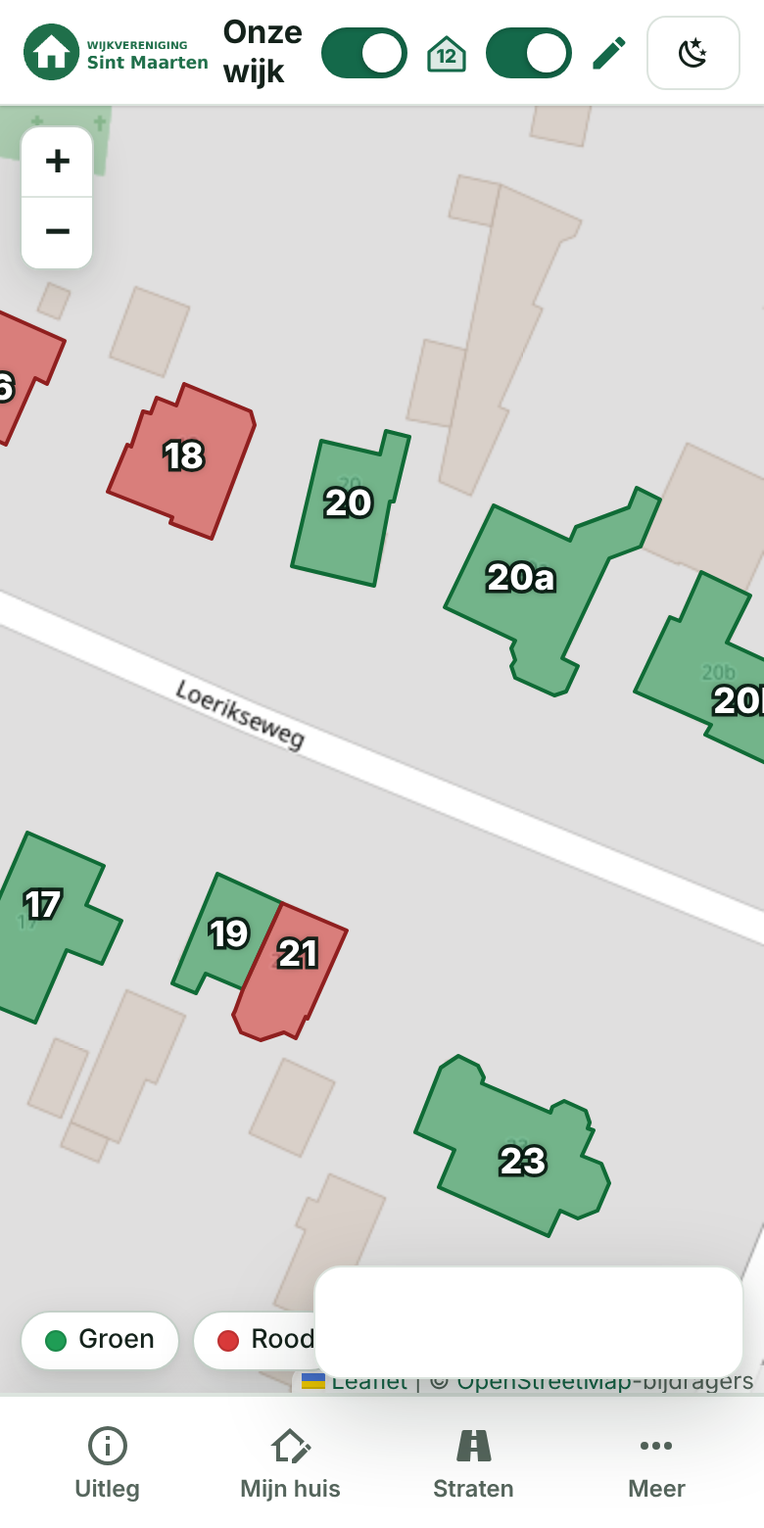
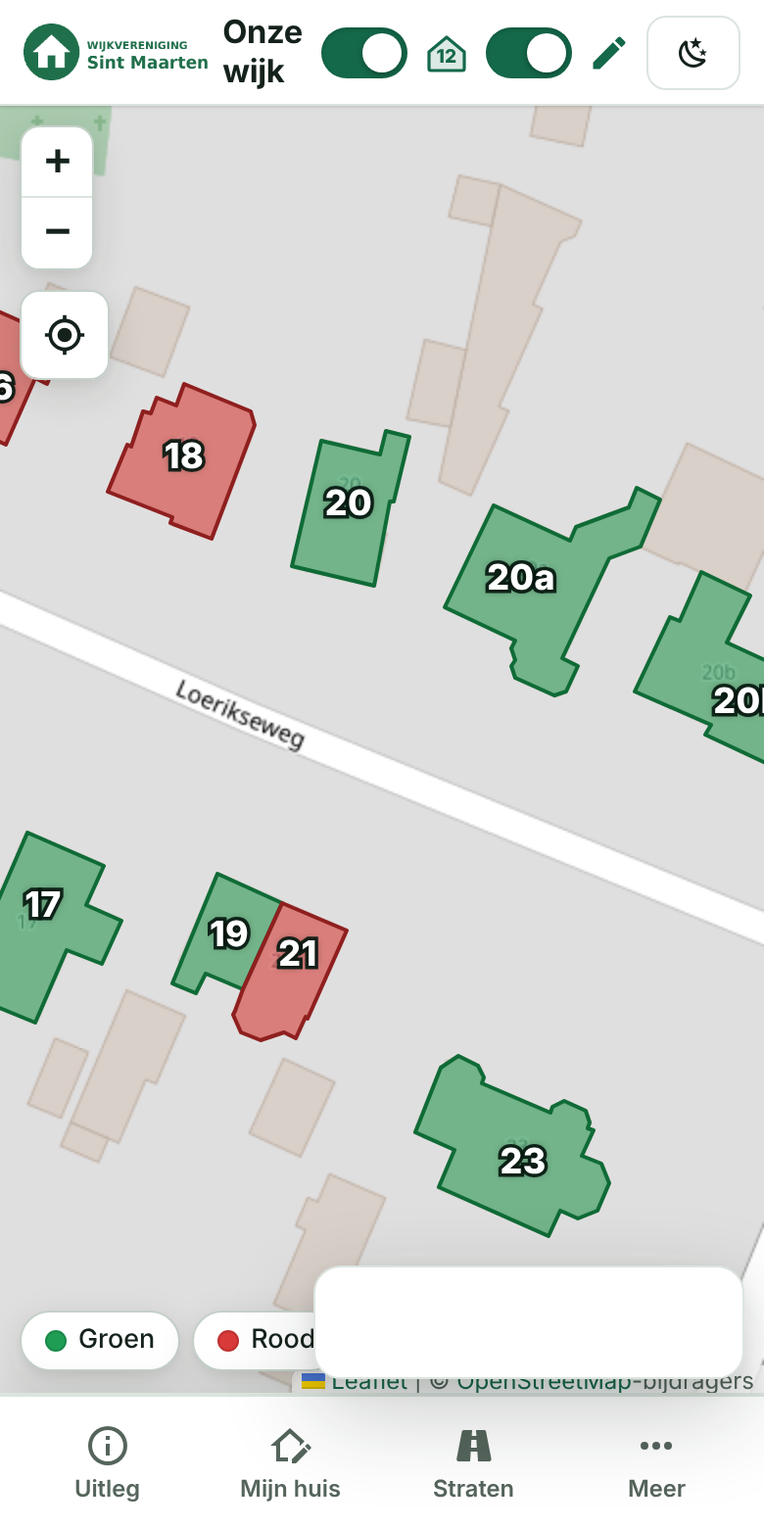
Release notes v1.0.31 en documentatie met screenshots voor de nieuwe functies
- docs/releases/v1.0.31.md: "Sinds de vorige stabiele versie (v1.0.30)" en
  "Goed om te weten bij het bijwerken" voor de promotie van beta naar productie
  (Mijn locatie, Community, installatiemelding, favicon en klein logo,
  verbergknop voor het totaal, fix kleur eigen huis).
- README (NL en EN): screenshots bij Mijn locatie, Community, de Config-instellingen,
  het overzicht met aantallen en de installatiemelding; het overzicht met aantallen
  stond nog niet beschreven; de Engelse sectie over installeren volgt nu de
  Nederlandse; een losse ** in de functielijst hersteld.
- tools/screenshots.js: maakt de nieuwe screenshots (geolocatie, community met
  andere deelnemers, installatiemelding per platform, Config, totaalblok).
- Alle bestaande screenshots opnieuw gemaakt, zodat de knop Mijn locatie overal zichtbaar is.

Claude-Session: https://claude.ai/code/session_01KSdu564CLm6kqbnwhr8yeo

Changed region(s): [[0.0, 0.1846, 0.1538, 0.2769]]

diff --git a/tools/screenshots.js b/tools/screenshots.js
@@ -377,6 +377,121 @@ async function main() {
     await ctx.close();
   }
 
+  // ---------- Mijn locatie, community, installatiemelding en de instellingen daarvoor ----------
+  console.log('locatie en community');
+  const HERE = { latitude: 52.02605, longitude: 5.16535, accuracy: 18 };
+  const geo = { geolocation: HERE, permissions: ['geolocation'] };
+  const seen = () => { try { localStorage.setItem('sm-intro-seen', 'x'); localStorage.setItem('sm-install-asked', '1'); } catch { /* geen opslag */ } };
+  // Andere deelnemers van de community (alleen coördinaten, kleur en symbool); ze verlopen na 45 s, dus vlak voor elke foto opnieuw.
+  const PEERS = [
+    ['screenshot-peer-000000001', 52.02634, 5.16572, '#e67e22', 'dog'], ['screenshot-peer-000000002', 52.02588, 5.16611, '#2980b9', 'bike'],
+    ['screenshot-peer-000000003', 52.02641, 5.16506, '#e84393', 'cat'], ['screenshot-peer-000000004', 52.02572, 5.16548, '#00a8a8', ''],
+  ];
+  const pingPeers = async () => { for (const [id, lat, lng, color, icon] of PEERS) await ap.request.post(`${BASE}/api/community/ping`, { data: { id, lat, lng, acc: 15, color, icon } }); };
+  // Opent de publieke kaart en sluit de uitleg (die staat anders open en houdt de locatie en de installatiemelding tegen).
+  const openPublic = async (p) => { await p.goto(`${BASE}/`); await p.waitForSelector('#intro-dialog[open]', { timeout: 5000 }).catch(() => {}); await closeIntro(p); };
+  const MIJN_LOCATIE = { viewport: { width: 390, height: 780 }, deviceScaleFactor: 2, isMobile: true, hasTouch: true };
+  {
+    const ctx = await browser.newContext(ctxOpts(MIJN_LOCATIE, geo));
+    await ctx.addInitScript(seen);
+    const p = await ctx.newPage();
+    await openPublic(p);
+    await p.waitForSelector('.locate-btn.on', { timeout: 10000 });
+    await p.waitForTimeout(2500);
+    await shot(p, 'mijn-locatie-mobiel');
+    await ctx.close();
+  }
+  await put('/api/admin/settings', { communityEnabled: true, communityLooks: true });
+  {
+    const ctx = await browser.newContext(ctxOpts(MIJN_LOCATIE, geo));
+    await ctx.addInitScript(seen);
+    const p = await ctx.newPage();
+    await openPublic(p);
+    await p.waitForSelector('.community-btn', { timeout: 10000 });
+    await p.waitForTimeout(1500);
+    await p.click('.community-btn');
+    await p.waitForSelector('#community-dialog[open]', { timeout: 5000 });
+    await p.click('#community-colors .look-btn:nth-child(3)');
+    await p.click('#community-icons .look-btn:nth-child(5)');
+    await p.waitForTimeout(400);
+    await shot(p, 'community-venster-mobiel');
+    await p.click('#community-yes');
+    await pingPeers();
+    await p.waitForTimeout(500);
+    await pingPeers();
+    await p.waitForTimeout(6000);
+    await pingPeers();
+    await p.waitForTimeout(4000);
+    await shot(p, 'community-kaart-mobiel');
+    await ctx.close();
+  }
+  {
+    // beheer: alle deelnemers als stippen, het aantal in de zijbalk
+    const ctx = await browser.newContext(ctxOpts(DESKTOP, { storageState: state }));
+    const p = await ctx.newPage();
+    await openAdmin(p);
+    await pingPeers();
+    await p.waitForTimeout(6000);
+    await pingPeers();
+    await p.waitForTimeout(3000);
+    await shot(p, 'beheer-community');
+    await ctx.close();
+  }
+  // instellingen: knop Mijn locatie, community en de afbeeldingen (klein logo en favicon)
+  for (const route of ['logo-small', 'favicon']) {
+    const r = await ap.request.post(`${BASE}/api/admin/${route}`, { data: logo, headers: { 'Content-Type': 'application/octet-stream' } });
+    if (!r.ok()) throw new Error(`${route} ${r.status()}`);
+  }
+  {
+    const ctx = await browser.newContext(ctxOpts({ viewport: { width: 1280, height: 900 }, deviceScaleFactor: 1 }, { storageState: state }));
+    const p = await ctx.newPage();
+    await openAdmin(p);
+    await openTab(p, 'org');
+    await p.evaluate(() => document.getElementById('org-logo-small').closest('.set-card').scrollIntoView({ block: 'start' }));
+    await p.waitForTimeout(400);
+    await shot(p, 'instellingen-config-afbeeldingen');
+    await p.evaluate(() => document.getElementById('org-locate').closest('.set-card').scrollIntoView({ block: 'start' }));
+    await p.waitForTimeout(400);
+    await shot(p, 'instellingen-config-locatie');
+    await p.evaluate(() => document.getElementById('org-community-default').scrollIntoView({ block: 'center' }));
+    await p.waitForTimeout(400);
+    await shot(p, 'instellingen-config-communityteksten');
+    await ctx.close();
+  }
+  for (const route of ['logo-small', 'favicon']) await ap.request.delete(`${BASE}/api/admin/${route}`);
+  await put('/api/admin/settings', { communityEnabled: false });
+  // totaalblok op de voorpagina met de knop om het te verbergen
+  await put('/api/admin/settings', { statsPublic: true });
+  {
+    const ctx = await browser.newContext(ctxOpts(DESKTOP));
+    await ctx.addInitScript(seen);
+    const p = await ctx.newPage();
+    await openPublic(p);
+    await p.waitForSelector('.stats-btn:not([hidden])', { timeout: 10000 });
+    await p.waitForTimeout(1500);
+    await shot(p, 'voorpagina-totaal');
+    await p.click('.stats-btn');
+    await p.waitForTimeout(500);
+    await shot(p, 'voorpagina-totaal-verborgen');
+    await ctx.close();
+  }
+  await put('/api/admin/settings', { statsPublic: false });
+  // eerste bezoek: de installatiemelding met de stappen per platform
+  const PLATFORMS = {
+    ios: 'Mozilla/5.0 (iPhone; CPU iPhone OS 17_4 like Mac OS X) AppleWebKit/605.1.15 (KHTML, like Gecko) Version/17.4 Mobile/15E148 Safari/604.1',
+    android: 'Mozilla/5.0 (Linux; Android 14; Pixel 8) AppleWebKit/537.36 (KHTML, like Gecko) Chrome/124.0.0.0 Mobile Safari/537.36',
+  };
+  for (const [name, userAgent] of Object.entries(PLATFORMS)) {
+    if (!wanted(`installatiemelding-${name}`)) continue;
+    const ctx = await browser.newContext(ctxOpts({ ...MOBILE, userAgent }));
+    const p = await ctx.newPage();
+    await openPublic(p);
+    await p.waitForSelector('#install-dialog[open]', { timeout: 20000 });
+    await p.waitForTimeout(600);
+    await shot(p, `installatiemelding-${name}`);
+    await ctx.close();
+  }
+
   // ---------- meertalig en donker: Config met taalbalk en de Engelse/donkere site ----------
   console.log('talen');
   await put('/api/admin/settings', { multilingual: true, defaultLang: 'nl', translations: { en: { siteTitle: 'Our neighbourhood', intro: 'Welcome to the neighbourhood map of our association! Green houses are happy to receive visitors, red houses prefer not.', labels: { green: '', red: '', none: '' } } } });

diff --git a/README.en.md b/README.en.md
@@ -24,7 +24,8 @@ An interactive map of the neighbourhood in which every house is **green**, **red
 - Map based on OpenStreetMap (no API key) with coloured areas over the houses; click a house for its note.
 - House numbers on the map (switch), a street filter with green/red counts, and an information window.
 - **PDF** (A4 landscape) with map, legend, totals, logo, explanation and an overview of the marked houses, including date and time.
-- **Installable as an app (PWA)** with its own app icon and **offline** use.
+- **Installable as an app (PWA)** with its own app icon and **offline** use; on the first visit a prompt with an *Install now* button and the steps per platform helps you. See [Installing as an app](#installing-as-an-app-and-offline-use).
+- The **overview with totals** (total and per status) is also shown on the front page when the admin switches it on; a button next to light/dark hides or shows the block.
 - Works on phone (menu bar at the bottom, floating status bar) and desktop.
 - **Multilingual** (Dutch and English, can be switched on in the admin area) and a **dark/light mode** with a button at the top right. See [Languages and dark mode](#languages-and-dark-mode).
 
@@ -32,6 +33,7 @@ An interactive map of the neighbourhood in which every house is **green**, **red
 - Residents change the status of **their own house** (one house per device); the admin approves it. See [Residents: My house](#residents-my-house).
 - Quickly go to your house with a double-click or long-press.
 - The **My location** button (below the zoom buttons) shows your own position as a blue dot, on by default (the browser asks for permission), so you only need one phone.
+- Optional (switched on by the admin): the **Community** to share your position live and see the other participants as dots, with their own colour and symbol. See [My location and Community](#the-website-for-visitors).
 - Optional: choose a house **only with the QR code** from the letter (one device per house), with a location check (geofence) and/or an access code for devices without GPS. See [Access via QR code](#access-via-qr-code-optional).
 
 **For the admin**
@@ -40,7 +42,7 @@ An interactive map of the neighbourhood in which every house is **green**, **red
 - **Approve or reject** changes by residents, with **push notifications**; **block** devices (also by IP); **schedule** changes until a date and time.
 - **QR codes** per house: show, copy the link, renew, and a **printable PDF** with a card per house to deliver to the residents.
 - Settings in five clear tabs; the admin area can also be installed as its own **app**.
-- Your own **logo** (with an optional small logo for the header), an optional **favicon** (also the icon of the installed app; the lantern by default), explanation, info box, site and app name** and your own names for the statuses.
+- Your own **logo** (with an optional small logo for the header), an optional **favicon** (also the icon of the installed app; the lantern by default), explanation, info box, **site and app name** and your own names for the statuses.
 - Automatic **backups** after every save attempt, with short titles and manual backups.
 - Version number and commit visible in the settings menu.
 
@@ -64,6 +66,12 @@ Example with random houses (map data © OpenStreetMap contributors).
 
 **Explanation and info box** – the association's text; it is shown automatically the first time and closes with the cross at the top right. At the top is the eye-catching green **info box** explaining that residents can change their own house; it disappears as soon as changing is switched off.
 
+**Overview with totals** – at the top right of the map are the *total number of houses* and, per status, the number and the percentage, with a distribution bar. The admin switches the block on for visitors with *Also show on the front page* (*Settings → Config → Display*; off by default). When it is visible, a button next to the light/dark button lets a visitor hide or show the block; that choice is remembered on that device only.
+
+<table>
+<tr><td align="center" valign="top"><a href="docs/screenshots/voorpagina-totaal.png"><img src="docs/screenshots/voorpagina-totaal.png" width="400" alt="Overview with totals"></a><br><sub>Overview with totals</sub></td><td align="center" valign="top"><a href="docs/screenshots/voorpagina-totaal-verborgen.png"><img src="docs/screenshots/voorpagina-totaal-verborgen.png" width="400" alt="Hidden with the button at the top right"></a><br><sub>Hidden with the button at the top right</sub></td></tr>
+</table>
+
 **PDF export** – A4 landscape with legend, totals and the date and time (HH:MM) of the status. Page 2 contains the logo, the explanation and the overview of the marked houses. The PDF follows the chosen streets and the house numbers.
 
 <table>
@@ -82,7 +90,15 @@ Example with random houses (map data © OpenStreetMap contributors).
 
 **My location** – below the zoom buttons is the *My location* button (the crosshair). Your location is **on by default**: when the map opens, the browser asks for permission to use your location (after the explanation has been closed). On a first visit everything comes one after another: first the explanation, then the location question, and only then the install notice. If you allow it, the button switches on (blue), your position appears as a blue dot with a light circle for the accuracy, the map zooms to you and follows you as you walk. Without permission the map stays as it was and no message follows. If you move the map yourself, following stops (the dot stays) and a tap on the button takes you back; one more tap on the next state turns the location off. If you turn the location off yourself, it no longer starts by itself on that device (only that choice is remembered, in the browser); a tap on the button turns it back on. While the location is on the screen stays awake, so you do not have to keep unlocking your phone while walking (if your browser supports it; otherwise the screen simply dims, and it is requested again when you return to the page). Your position stays on your phone: it is never stored or sent anywhere, unless you choose to share it with the Community (see below). Showing your location only works over **https**. The administrator can hide the button, and with it the location (see *Config*).
 
+<table>
+<tr><td align="center" valign="top"><a href="docs/screenshots/mijn-locatie-mobiel.png"><img src="docs/screenshots/mijn-locatie-mobiel.png" width="220" alt="My location: blue dot with accuracy circle"></a><br><sub>My location: blue dot with accuracy circle</sub></td></tr>
+</table>
+
 **Community** – optional, **off** by default; the administrator switches it on under *Settings → Config → Display → Community*. A second button (the three people) then appears below *My location* to share your position live. Sharing is always voluntary: you must confirm it first and one tap stops it. Anyone taking part sees the other participants as **dots** (with the count on the button); anyone who does not share sees nobody. No name is attached. In the confirmation window a participant also picks a **colour and a symbol** (for example an animal) that others see; without a choice it is the default purple dot. The administrator can switch this choice off with *Choose colour and symbol* (on by default), after which every dot is purple. The **title and text** of the confirmation window are set by the administrator under *Config → Texts* (per language; empty = default text). The server only keeps positions briefly in memory (not on disk) and deletes them as soon as someone stops, closes the page, or after 45 seconds without a signal; when the administrator switches the feature off every position is gone immediately. In the admin area the administrator sees all participants as dots on the map, with the count in the side bar. This only works if the *My location* button is on as well.
+
+<table>
+<tr><td align="center" valign="top"><a href="docs/screenshots/community-venster-mobiel.png"><img src="docs/screenshots/community-venster-mobiel.png" width="220" alt="Confirm sharing, with colour and symbol"></a><br><sub>Confirm sharing, with colour and symbol</sub></td><td align="center" valign="top"><a href="docs/screenshots/community-kaart-mobiel.png"><img src="docs/screenshots/community-kaart-mobiel.png" width="220" alt="Participants as dots, the number on the button"></a><br><sub>Participants as dots, the number on the button</sub></td><td align="center" valign="top"><a href="docs/screenshots/beheer-community.png"><img src="docs/screenshots/beheer-community.png" width="220" alt="Admin area: all participants on the map"></a><br><sub>Admin area: all participants on the map</sub></td></tr>
+</table>
 
 **In the admin area** this works too: double-click (or long-press) a house and select mode switches on with that house selected, even if you were just drawing (as long as no area is in progress).
 
@@ -179,6 +195,10 @@ The cog (⚙) in the bar slides the settings menu into view. It is divided into 
 
 **Config** – language (multilingual and default language), logo, name of the site and the app, the simple display, the *My location* button for visitors (on or off; on by default), the *Community* (live participants; off by default), *Choose colour and symbol* for the community (on or off; on by default), the names of the statuses, the info box, the explanation, the text when sharing via WhatsApp and the title and text of the community window (the texts per language).
 
+<table>
+<tr><td align="center" valign="top"><a href="docs/screenshots/instellingen-config-afbeeldingen.png"><img src="docs/screenshots/instellingen-config-afbeeldingen.png" width="270" alt="Config: logo, small logo and favicon"></a><br><sub>Config: logo, small logo and favicon</sub></td><td align="center" valign="top"><a href="docs/screenshots/instellingen-config-locatie.png"><img src="docs/screenshots/instellingen-config-locatie.png" width="270" alt="Config: My location and Community"></a><br><sub>Config: My location and Community</sub></td><td align="center" valign="top"><a href="docs/screenshots/instellingen-config-communityteksten.png"><img src="docs/screenshots/instellingen-config-communityteksten.png" width="270" alt="Config: title and text of the community window"></a><br><sub>Config: title and text of the community window</sub></td></tr>
+</table>
+
 **Security** – add/remove passkeys and an optional password (confirm with passkey).
 
 **Backups** – after every save attempt a backup of the layout and texts is made automatically. Give a backup a **short title** (✎, max. 40 characters, for example "Everything" or "Layout only") or make one yourself with *Make backup*. Restoring or downloading is always possible; deleting (one or several at once) must be confirmed with your passkey.
@@ -248,9 +268,17 @@ Without input the site name (`SITE_TITLE`) applies. An already installed app onl
 The admin area (`/beheer`) can also be installed as its own app, with its own dark blue lantern with a cog as the icon and its own favicon, so you can tell it apart from the public map (Chrome/Edge: install icon in the address bar or *Install app*; iPhone/iPad: *Add to Home Screen*). The app opens directly at `/beheer`; push notifications for new changes use the same icon. You make a new icon with `python3 tools/make-icons.py`.
 
 ## Installing as an app and offline use
-- **Android and Windows (Chrome/Edge)**: you get a **one-time** prompt to install the app (*Install* / *Not now*), remembered per device. After that it is also possible via the browser menu → *Install app*.
-- **iPhone/iPad**: the same one-time prompt with instructions (see below).
-- **iPhone/iPad (Safari)**: share icon → *Add to Home Screen*.
+
+<table>
+<tr><td align="center" valign="top"><a href="docs/screenshots/installatiemelding-ios.png"><img src="docs/screenshots/installatiemelding-ios.png" width="220" alt="Install prompt on iPhone/iPad"></a><br><sub>Install prompt on iPhone/iPad</sub></td><td align="center" valign="top"><a href="docs/screenshots/installatiemelding-android.png"><img src="docs/screenshots/installatiemelding-android.png" width="220" alt="Install prompt on Android"></a><br><sub>Install prompt on Android</sub></td></tr>
+</table>
+
+- **First visit (iPhone/iPad, Android and Windows with Chrome/Edge)**: you get a **one-time** prompt *Install the app* (remembered per device) with an **Install now** button that starts the installation, plus instructions per platform:
+  - **iPhone/iPad (Safari)**: *Install now* opens the share sheet; choose *Add to Home Screen* → *Add*.
+  - **Android (Chrome)**: *Install now* starts the browser's installation; if that is not possible, the steps are shown (menu ⋮ → *Install app*).
+  - **Windows (Chrome/Edge)**: *Install now* starts the browser's installation; otherwise use the install icon in the address bar or the menu → *Install app* (Edge: *Apps* → *Install this site as an app*).
+  - With *Not now* you close the prompt; you can still install later via the browser menu.
+- On the very first visit the messages come one after the other: first the explanation, then the location question, then the install prompt.
 - **Offline**: the app stores itself, the last known map data, the logo and the map tiles of the neighbourhood (and the PDF section).
   Without a connection you see the last known state (with the message *Offline*), and the PDF can still be made. Only the admin area always requires a connection.
 - This only works over **HTTPS** (see `ORIGIN`). After an update of the site the app fetches the new version on the next visit.

diff --git a/README.md b/README.md
@@ -22,7 +22,8 @@ Een interactieve kaart van de wijk waarop elk huis **groen**, **rood** of **niet
 - Kaart op basis van OpenStreetMap (geen API-sleutel) met gekleurde vlakken over de huizen; klik op een huis voor de notitie.
 - Huisnummers op de kaart (schakelaar), straten-filter met tellingen groen/rood, en een uitleg- en infovenster.
 - **PDF** (A4 liggend) met kaart, legenda, aantallen, logo, uitleg en een overzicht van de gemarkeerde huizen, inclusief datum en tijd.
-- **Installeerbaar als app (PWA)** met eigen app-icoon en **offline** gebruik.
+- **Installeerbaar als app (PWA)** met eigen app-icoon en **offline** gebruik; bij het eerste bezoek helpt een melding met een knop *Installeer nu* en de stappen per platform. Zie [Installeren als app](#installeren-als-app-en-offline-gebruik).
+- Het **overzicht met aantallen** (totaal en per status) staat, als de beheerder dat aanzet, ook op de voorpagina; een knop naast licht/donker verbergt of toont het blok.
 - Werkt op telefoon (menubalk onderin, zwevend statusbalkje) en desktop.
 - **Meertalig** (Nederlands en Engels, in te schakelen in het beheer) en een **donkere/lichte weergave** met een knop rechtsboven. Zie [Talen en donkere weergave](#talen-en-donkere-weergave).
 
@@ -30,6 +31,7 @@ Een interactieve kaart van de wijk waarop elk huis **groen**, **rood** of **niet
 - Bewoners wijzigen de status van **hun eigen huis** (één huis per apparaat); de beheerder keurt dat goed. Zie [Bewoners: Mijn huis](#bewoners-mijn-huis).
 - Snel naar je huis met dubbelklikken of lang indrukken.
 - De knop **Mijn locatie** (onder de zoomknoppen) toont je eigen positie standaard als blauwe stip, zodat je maar één telefoon nodig hebt.
+- Optioneel (door de beheerder aan te zetten): de **Community** om je positie live te delen en de andere deelnemers als stippen te zien, met een eigen kleur en symbool. Zie [Mijn locatie en Community](#de-website-voor-bezoekers).
 - Optioneel: huis kiezen **alleen met de QR-code** uit de brief (één apparaat per huis), met locatiecontrole (geofence) en/of een toegangscode voor apparaten zonder GPS. Zie [Toegang via QR-code](#toegang-via-qr-code-optioneel).
 
 **Voor de beheerder**
@@ -38,7 +40,7 @@ Een interactieve kaart van de wijk waarop elk huis **groen**, **rood** of **niet
 - Wijzigingen van bewoners **goedkeuren of afwijzen**, met **pushmeldingen**; apparaten **blokkeren** (ook op IP); wijzigen **plannen** tot een datum en tijd.
 - **QR-codes** per huis: tonen, link kopiëren, vernieuwen en een **afdrukbare PDF** met een kaartje per huis om bij de bewoners te bezorgen.
 - Instellingen in vijf overzichtelijke tabs; het beheer is ook als eigen **app** te installeren.
-- Eigen **logo** (met een optioneel klein logo voor de kopbalk), een optioneel **favicon** (ook het icoon van de geïnstalleerde app; standaard de lantaarn), uitleg, infovlak, site- en appnaam** en eigen namen voor de statussen.
+- Eigen **logo** (met een optioneel klein logo voor de kopbalk), een optioneel **favicon** (ook het icoon van de geïnstalleerde app; standaard de lantaarn), uitleg, infovlak, **site- en appnaam** en eigen namen voor de statussen.
 - Automatische **backups** na elke opslagpoging, met korte titels en handmatige backups.
 - Versienummer en commit zichtbaar in het instellingenmenu.
 
@@ -62,6 +64,12 @@ Voorbeeld met willekeurige huizen (kaartgegevens © OpenStreetMap-bijdragers).
 
 **Uitleg en infovlak** – de tekst van de vereniging; wordt de eerste keer automatisch getoond en sluit met het kruisje rechtsboven. Bovenaan staat het opvallende groene **infovlak** dat uitlegt dat bewoners hun eigen huis kunnen wijzigen; dat verdwijnt zodra wijzigen is uitgeschakeld.
 
+**Overzicht met aantallen** – rechtsboven op de kaart staat het *totaal aantal huizen* en per status het aantal en het percentage, met een verdelingsbalk. De beheerder zet het blok voor bezoekers aan met *Ook op de voorpagina tonen* (*Instellingen → Config → Weergave*; standaard uit). Is het zichtbaar, dan staat naast de licht/donker-knop een knop waarmee een bezoeker het blok verbergt of weer toont; die keuze wordt alleen op dat apparaat onthouden.
+
+<table>
+<tr><td align="center" valign="top"><a href="docs/screenshots/voorpagina-totaal.png"><img src="docs/screenshots/voorpagina-totaal.png" width="400" alt="Overzicht met aantallen"></a><br><sub>Overzicht met aantallen</sub></td><td align="center" valign="top"><a href="docs/screenshots/voorpagina-totaal-verborgen.png"><img src="docs/screenshots/voorpagina-totaal-verborgen.png" width="400" alt="Verborgen met de knop rechtsboven"></a><br><sub>Verborgen met de knop rechtsboven</sub></td></tr>
+</table>
+
 **PDF-export** – A4 liggend met legenda, aantallen en de datum en het tijdstip (HH:MM) van de stand. Pagina 2 bevat het logo, de uitleg en het overzicht van de gemarkeerde huizen. De PDF volgt de gekozen straten en de huisnummers.
 
 <table>
@@ -80,7 +88,15 @@ Voorbeeld met willekeurige huizen (kaartgegevens © OpenStreetMap-bijdragers).
 
 **Mijn locatie** – onder de zoomknoppen staat de knop *Mijn locatie* (het richtkruis). De locatie staat **standaard aan**: bij het openen van de kaart vraagt de browser om toestemming (nadat de uitleg is gesloten). Bij het eerste bezoek komt alles na elkaar: eerst de uitleg, dan de locatievraag, en pas daarna de installatiemelding. Geef je die, dan schakelt de knop in (blauw), verschijnt je positie als blauwe stip met een lichte cirkel voor de nauwkeurigheid, zoomt de kaart naar je toe en volgt hij je terwijl je loopt. Zonder toestemming blijft de kaart zoals hij was en volgt er geen melding. Schuif je de kaart zelf weg, dan stopt het volgen (de stip blijft) en brengt een tik op de knop je terug; nog een tik op de volgende stand zet de locatie uit. Wie de locatie zelf uitzet, krijgt hem op dat apparaat niet meer vanzelf aan (alleen die keuze wordt onthouden, in de browser); een tik op de knop zet hem weer aan. Zolang de locatie aan staat blijft het scherm aan, zodat je de telefoon tijdens het lopen niet steeds hoeft te ontgrendelen (als je browser dat ondersteunt; anders dimt het scherm gewoon, en na terugkeren naar de pagina wordt het opnieuw aangevraagd). Je positie blijft op je telefoon: ze wordt nergens opgeslagen of verstuurd, behalve als je zelf kiest voor delen met de Community (zie hieronder). Het tonen van je locatie werkt alleen via **https**. De beheerder kan de knop, en daarmee de locatie, verbergen (zie *Config*).
 
+<table>
+<tr><td align="center" valign="top"><a href="docs/screenshots/mijn-locatie-mobiel.png"><img src="docs/screenshots/mijn-locatie-mobiel.png" width="220" alt="Mijn locatie: blauwe stip met nauwkeurigheidscirkel"></a><br><sub>Mijn locatie: blauwe stip met nauwkeurigheidscirkel</sub></td></tr>
+</table>
+
 **Community** – optioneel, standaard **uit**; de beheerder zet het aan onder *Instellingen → Config → Weergave → Community*. Dan verschijnt onder *Mijn locatie* een tweede knop (de drie poppetjes) om je positie live te delen. Delen is altijd vrijwillig: je moet het eerst bevestigen en stoppen kan met één tik. Wie meedoet ziet de andere deelnemers als **stippen** (met het aantal op de knop); wie niet deelt, ziet niemand. Er staat geen naam bij. In het bevestigingsvenster kiest een deelnemer ook een **kleur en een symbool** (bijvoorbeeld een dier) waarmee anderen hem zien; zonder keuze is het de standaard paarse stip. De beheerder zet die keuze uit met *Kleur en symbool kiezen* (standaard aan), dan zijn alle stippen paars. De **titel en de tekst** van het bevestigingsvenster stelt de beheerder in onder *Config → Teksten* (per taal; leeg = standaardtekst). De server bewaart posities alleen kort in het geheugen (niet op schijf) en wist ze zodra iemand stopt, de pagina sluit, of na 45 seconden zonder signaal; de beheerder zet de functie uit en alle posities zijn direct weg. In het beheer ziet de beheerder alle deelnemers als stippen op de kaart, met het aantal in de zijbalk. Dit werkt alleen als de knop *Mijn locatie* ook aan staat.
+
+<table>
+<tr><td align="center" valign="top"><a href="docs/screenshots/community-venster-mobiel.png"><img src="docs/screenshots/community-venster-mobiel.png" width="220" alt="Delen bevestigen, met kleur en symbool"></a><br><sub>Delen bevestigen, met kleur en symbool</sub></td><td align="center" valign="top"><a href="docs/screenshots/community-kaart-mobiel.png"><img src="docs/screenshots/community-kaart-mobiel.png" width="220" alt="Deelnemers als stippen, het aantal op de knop"></a><br><sub>Deelnemers als stippen, het aantal op de knop</sub></td><td align="center" valign="top"><a href="docs/screenshots/beheer-community.png"><img src="docs/screenshots/beheer-community.png" width="220" alt="Beheer: alle deelnemers op de kaart"></a><br><sub>Beheer: alle deelnemers op de kaart</sub></td></tr>
+</table>
 
 **In het beheer** werkt dit ook: dubbelklik (of druk lang) op een huis en de selecteermodus gaat aan met dat huis geselecteerd, ook als je net aan het tekenen was (zolang er nog geen vlak loopt).
 
@@ -177,6 +193,10 @@ Het tandwiel (⚙) in de balk schuift het instellingen-menu in beeld. Het is ing
 
 **Config** – taal (meertalig en standaardtaal), logo, naam van de site en de app, de eenvoudige weergave, de knop *Mijn locatie* voor bezoekers (aan of uit; standaard aan), de *Community* (live deelnemers; standaard uit), *Kleur en symbool kiezen* voor de community (aan of uit; standaard aan), de namen van de statussen, het infovlak, de uitleg, de tekst bij delen via WhatsApp en de titel en tekst van het communityvenster (de teksten per taal).
 
+<table>
+<tr><td align="center" valign="top"><a href="docs/screenshots/instellingen-config-afbeeldingen.png"><img src="docs/screenshots/instellingen-config-afbeeldingen.png" width="270" alt="Config: logo, klein logo en favicon"></a><br><sub>Config: logo, klein logo en favicon</sub></td><td align="center" valign="top"><a href="docs/screenshots/instellingen-config-locatie.png"><img src="docs/screenshots/instellingen-config-locatie.png" width="270" alt="Config: Mijn locatie en Community"></a><br><sub>Config: Mijn locatie en Community</sub></td><td align="center" valign="top"><a href="docs/screenshots/instellingen-config-communityteksten.png"><img src="docs/screenshots/instellingen-config-communityteksten.png" width="270" alt="Config: titel en tekst van het communityvenster"></a><br><sub>Config: titel en tekst van het communityvenster</sub></td></tr>
+</table>
+
 **Beveiliging** – passkeys toevoegen/verwijderen en een optioneel wachtwoord (bevestigen met passkey).
 
 **Backups** – na elke opslagpoging wordt automatisch een backup gemaakt van de layout en teksten. Geef een backup een **korte titel** (✎, max. 40 tekens, bijvoorbeeld "Alles" of "Alleen layout") of maak er zelf een met *Backup maken*. Terugzetten of downloaden kan altijd; verwijderen (één of meer tegelijk) moet je bevestigen met je passkey.
@@ -246,6 +266,11 @@ Zonder invoer geldt de sitenaam (`SITE_TITLE`). Een al geïnstalleerde app neemt
 Ook het beheer (`/beheer`) is te installeren als eigen app, met een eigen donkerblauwe lantaarn met tandwiel als icoon en een eigen favicon, zodat je het onderscheidt van de publieke kaart (Chrome/Edge: installeer-icoon in de adresbalk of *App installeren*; iPhone/iPad: *Zet in beginscherm*). De app opent direct op `/beheer`; pushmeldingen voor nieuwe wijzigingen gebruiken hetzelfde icoon. Een nieuw icoon maak je met `python3 tools/make-icons.py`.
 
 ## Installeren als app en offline gebruik
+
+<table>
+<tr><td align="center" valign="top"><a href="docs/screenshots/installatiemelding-ios.png"><img src="docs/screenshots/installatiemelding-ios.png" width="220" alt="Installatiemelding op iPhone/iPad"></a><br><sub>Installatiemelding op iPhone/iPad</sub></td><td align="center" valign="top"><a href="docs/screenshots/installatiemelding-android.png"><img src="docs/screenshots/installatiemelding-android.png" width="220" alt="Installatiemelding op Android"></a><br><sub>Installatiemelding op Android</sub></td></tr>
+</table>
+
 - **Eerste bezoek (iPhone/iPad, Android en Windows met Chrome/Edge)**: je krijgt **eenmalig** een melding *Installeer de app* (per apparaat onthouden) met een knop **Installeer nu** die het installeren start, plus uitleg per platform:
   - **iPhone/iPad (Safari)**: *Installeer nu* opent het deelvenster; kies daarin *Zet in beginscherm* → *Voeg toe*.
   - **Android (Chrome)**: *Installeer nu* start de installatie van de browser; kan dat niet, dan staan de stappen erbij (menu ⋮ → *App installeren*).

diff --git a/docs/releases/v1.0.31.md b/docs/releases/v1.0.31.md
@@ -1,0 +1,49 @@
+# v1.0.31 – Mijn locatie, de community op de kaart en een eigen icoon voor de app
+
+Een flinke stap vooruit voor bezoekers met een telefoon: de kaart toont nu je eigen positie, bezoekers kunnen (als jij dat aanzet) hun positie live met elkaar delen, en de app is makkelijker te installeren. Voor de beheerder is er een eigen favicon en een klein logo voor de kopbalk, en de teksten van het communityvenster stel je zelf in. **Er is niets wat je moet aanpassen** voordat je bijwerkt.
+
+## Sinds de vorige stabiele versie (v1.0.30)
+
+### ✨ Nieuw voor bezoekers en bewoners
+- **Mijn locatie.** Onder de zoomknoppen staat een knop met een richtkruis. De locatie staat **standaard aan**: bij het openen van de kaart vraagt de browser om toestemming (nadat de uitleg is gesloten). Na toestemming verschijnt je positie als blauwe stip met een cirkel voor de nauwkeurigheid, zoomt de kaart naar je toe en volgt hij je terwijl je loopt; het scherm blijft aan zolang de locatie aan staat (als je browser dat ondersteunt), zodat je de telefoon niet steeds hoeft te ontgrendelen. Je hebt dus geen tweede telefoon met een navigatie-app meer nodig. Schuif je de kaart zelf weg, dan stopt het volgen en brengt een tik op de knop je terug. Zet je de locatie zelf uit, dan onthoudt dat apparaat dat. Je positie blijft op je telefoon en wordt nergens opgeslagen, tenzij je zelf kiest voor delen met de community.
+- **Community (optioneel).** Zet de beheerder de community aan, dan staat onder *Mijn locatie* een tweede knop (de drie poppetjes) om je positie live te delen. Delen is altijd vrijwillig: je bevestigt het eerst en stopt met één tik. Wie meedoet ziet de andere deelnemers als stippen op de kaart, met het aantal op de knop; wie niet deelt, ziet niemand. Er staat geen naam bij.
+- **Eigen kleur en symbool.** In het bevestigingsvenster kies je een kleur (8) en een symbool (11, zoals een hond, fiets of boom) waarmee anderen je op de kaart zien. De beheerder kan dit uitzetten; dan is iedereen weer de standaard paarse stip.
+- **Installeren als app, op alle platformen.** Bij het eerste bezoek krijg je eenmalig de melding *Installeer de app* met een knop **Installeer nu** en de stappen voor jouw platform (iPhone/iPad, Android of Windows met Chrome/Edge). Voorheen kwam die melding alleen op iPhone en iPad (zonder knop) en op Android en Windows pas als de browser zelf een installatiemelding gaf.
+- **Rustig eerste bezoek.** De drie meldingen komen nu na elkaar in plaats van door elkaar: eerst de uitleg, dan de locatievraag, dan de installatiemelding.
+- **Totaal aantal huizen verbergen.** Toont de voorpagina het overzicht met het totaal aantal huizen, dan staat naast de licht/donker-knop een knop om dat blok te verbergen of weer te tonen. Die keuze blijft op dat apparaat bewaard.
+
+### ✨ Nieuw voor de beheerder
+- **Community aan- of uitzetten.** Onder *Instellingen → Config → Weergave* zet je de community aan (standaard **uit**) en bepaal je of deelnemers een eigen kleur en symbool mogen kiezen (standaard aan). Zet je de community uit, dan zijn alle posities direct weg. In het beheer zie je alle deelnemers als stippen op de kaart, met het aantal in de zijbalk.
+- **Knop Mijn locatie verbergen.** Met een schakelaar op dezelfde plek verberg je de knop (en daarmee de locatie) voor bezoekers. Standaard staat hij aan.
+- **Eigen tekst voor het communityvenster.** De titel en de tekst van het venster *Positie delen met de community?* pas je aan onder *Config → Teksten*, per taal. Een lege regel begint een nieuwe alinea; laat je het leeg, dan geldt de standaardtekst (ook in het Engels).
+- **Eigen favicon.** Onder *Config* kies je een eigen favicon voor het tabblad en het beginscherm van iPhone en iPad. Is het favicon vierkant en minstens 192 px groot, dan is het ook het icoon van de geïnstalleerde app. Zonder favicon blijft de standaardlantaarn staan.
+- **Klein logo voor de kopbalk.** Een breed logo wordt op een telefoon klein en korrelig. Met een apart, optioneel klein logo (bijvoorbeeld een vierkant icoon) is de kopbalk scherp. De PDF en de QR-kaartjes gebruiken altijd het gewone logo.
+
+### 🐞 Opgelost
+- Een groen of rood huis behoudt zijn kleur: het eigen huis werd donkerder doordat het over het publieke vlak heen getekend werd, en ook de kleur bij het openen van *Mijn huis* verandert niet meer.
+
+### 🔧 Onder de motorkap
+- Nieuwe onderdelen: `public/js/locate.js` (Mijn locatie en delen) en `server/community.js` (de community), met nieuwe API-tests voor de privacyregels, de instellingen en de teksten.
+- De community bewaart posities, kleuren en symbolen alleen kort in het geheugen van de server (niet op schijf), verwijdert ze zodra iemand stopt, de pagina sluit of 45 seconden niets doorgeeft, en accepteert maximaal 500 deelnemers en 20 per IP-adres. Het apparaat-id wordt niet aan anderen doorgegeven.
+- De screenshots in de documentatie worden gemaakt met `node tools/screenshots.js` en zijn opnieuw gemaakt, nu ook voor de nieuwe functies. De README (Nederlands en Engels) beschrijft alles hierboven.
+
+## Goed om te weten bij het bijwerken
+
+**1. Geen aanpassingen nodig.** `docker-compose.yml`, `.env.example`, de variabelen en je gegevens blijven ongewijzigd. Nieuwe instellingen (`locateEnabled`, `communityEnabled`, `communityLooks`, de teksten van het communityvenster, het favicon en het kleine logo) komen vanzelf in je instellingen; ontbreken ze, dan gelden de standaardwaarden. Een teruggezette backup neemt ze mee. Bijwerken kan met:
+```sh
+docker compose pull && docker compose up -d
+```
+
+**2. Wat bezoekers vanaf nu zien.** Omdat *Mijn locatie* standaard aan staat, vragen bezoekers na het sluiten van de uitleg om toestemming voor hun locatie. Wil je dat niet, zet dan *Mijn locatie* uit onder *Instellingen → Config → Weergave*. De community staat standaard **uit**: er verandert niets in het delen van posities totdat jij hem aanzet.
+
+**3. Alleen via https.** Het tonen van de locatie werkt alleen via **https** (zie `ORIGIN`).
+
+**4. Ververs de pagina.** Ververs het beheer en de voorpagina één keer goed (of sluit en open de geïnstalleerde app), zodat de nieuwe scripts en stijlen worden geladen. De offline-cache van de app ververst zichzelf met de nieuwe versie.
+
+**5. Limieten.** Er zijn geen limieten verhoogd: het grootste verzoek dat de app accepteert is ongewijzigd (afbeeldingen voor het logo, het kleine logo en het favicon: maximaal 5 MB). Wat ervoor staat, zoals een reverse proxy, hoeft daarom niet te veranderen.
+
+### Installeren
+```sh
+docker pull ghcr.io/helmerznl/doorbell-map:v1.0.31
+```
+Zie [Zelf deployen met Docker](https://github.com/helmerzNL/Doorbell-Map#zelf-deployen-met-docker) voor `docker-compose.yml` en `.env`.
